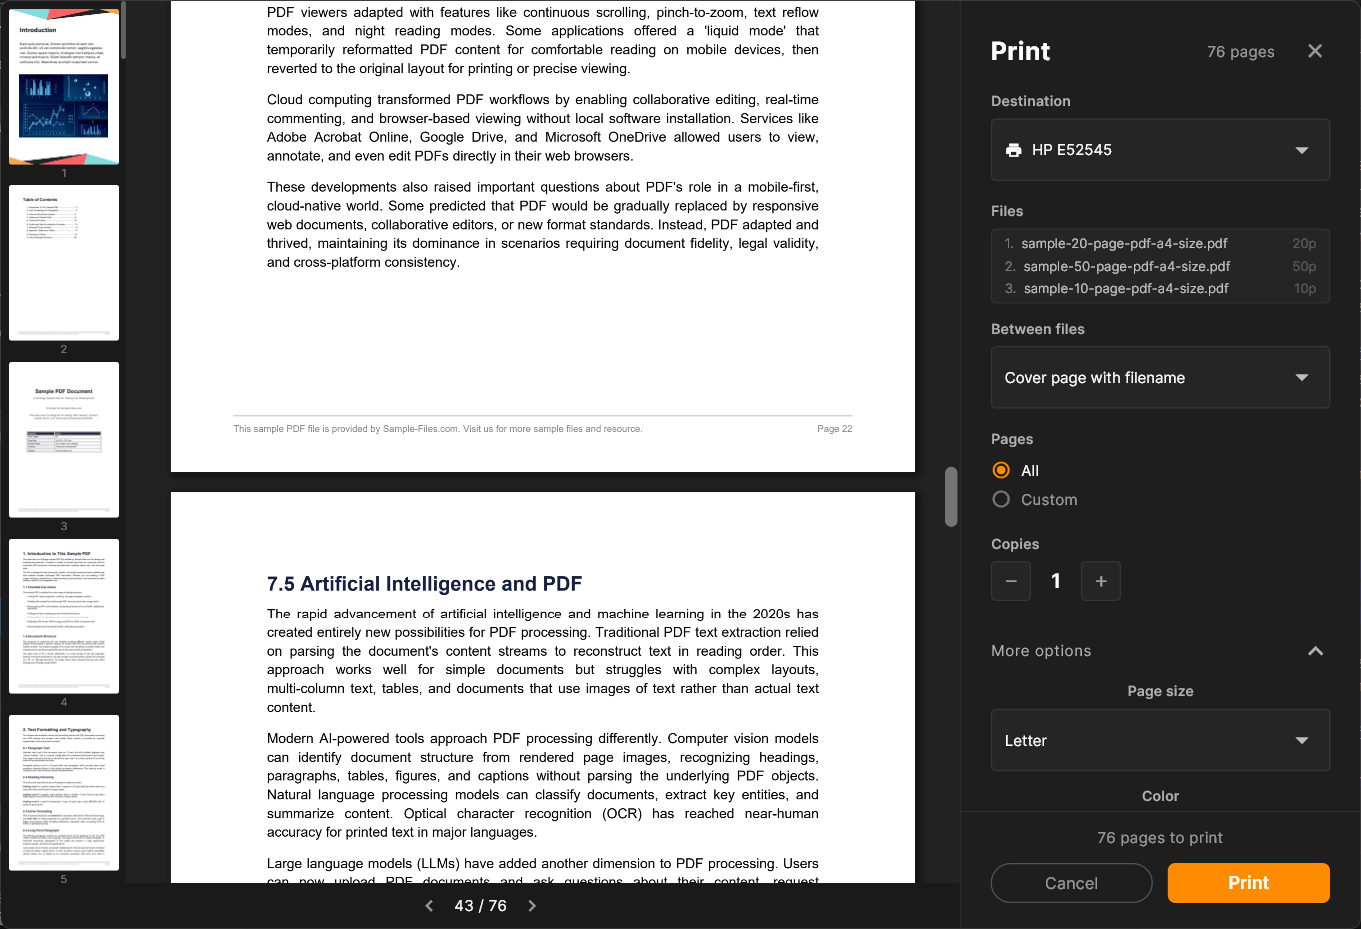
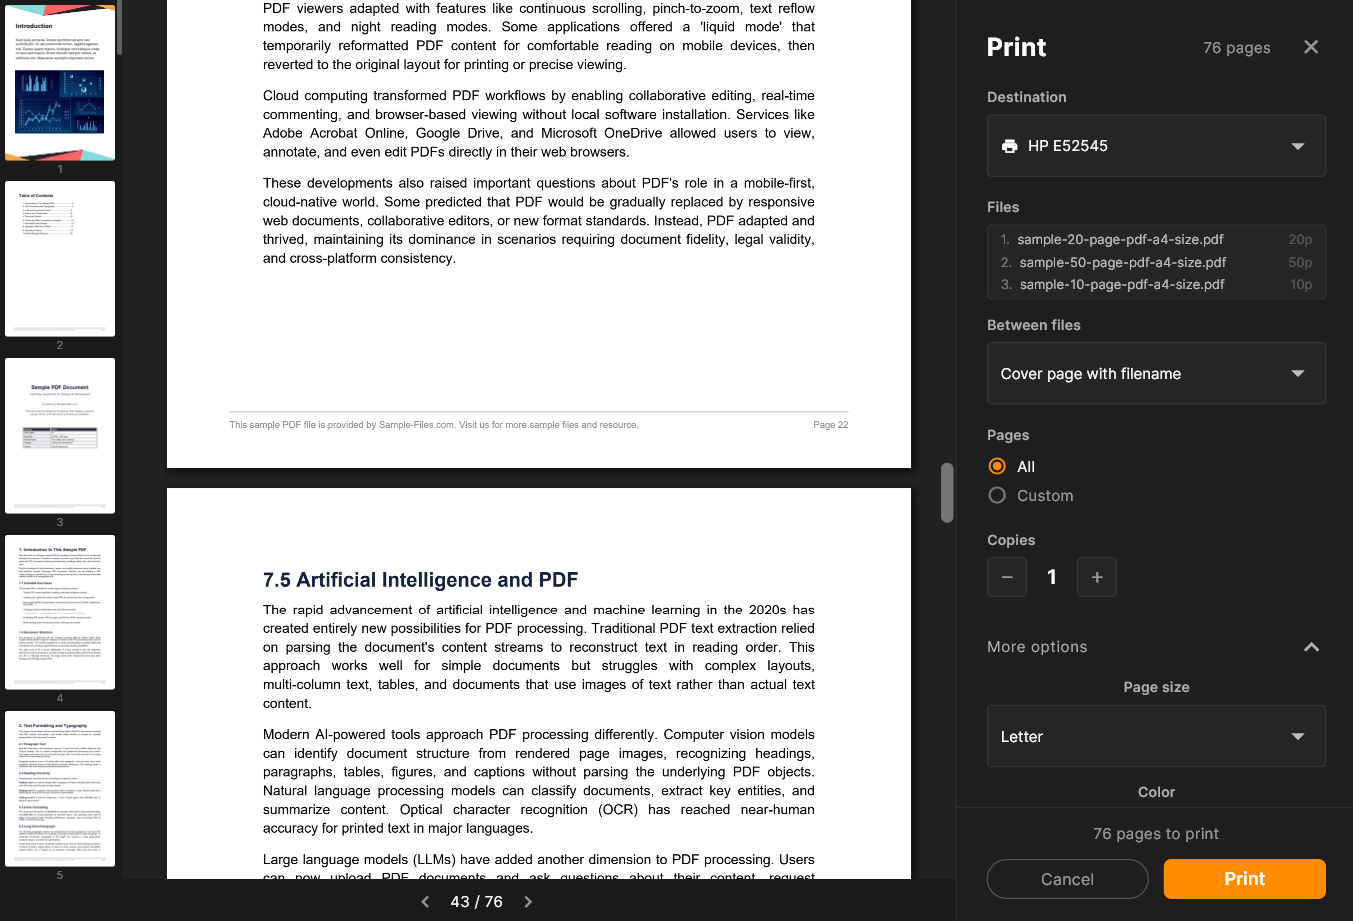
Clean up screenshot edges and remove CSS borders
Crop 4px from each edge of all screenshots to remove Windows window
frame artifacts (grey border pixels). Remove CSS border from images,
keeping only box-shadow for a cleaner look against the dark background.

diff --git a/index.html b/index.html
@@ -175,7 +175,6 @@ nav {
 }
 .hero-screenshot img {
   width: 100%; border-radius: 12px;
-  border: 2px solid #333;
   box-shadow: 0 20px 60px rgba(0,0,0,0.5),
               0 0 80px var(--orange-glow);
 }
@@ -239,7 +238,6 @@ section { padding: 100px 2rem; }
 
 .screenshot-row img {
   flex: 1; max-width: 60%; border-radius: 12px;
-  border: 2px solid #333;
   box-shadow: 0 10px 40px rgba(0,0,0,0.4);
 }
 .screenshot-text { flex: 1; }
